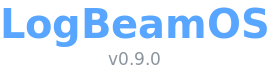
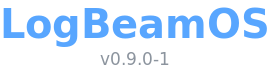
LogBeamOS 0.9.0-1: o Actualizar deixa de esconder as actualizações quando uma fonte de pacotes falha; aviso de terminar a sessão só no fim
Uma fonte de pacotes de outro programa sem a sua chave de assinatura (Google Earth, no PC de Bráulio Sousa, CT7APZ) fazia o Actualizar dizer «Sem ligação à Internet» e esconder todas as linhas do apt, incluindo a do LogBeamOS Update; o ajudante também parava. Agora a janela e o ajudante usam as fontes que responderam, a fonte que falhou aparece nos detalhes, e «Sem ligação à Internet» só quando nenhuma fonte respondeu (o apt 2.8 sai com 0 sem rede: a decisão vem das linhas Hit/Get/Err). O aviso para terminar a sessão sai de um vigia (aviso-sessao) que espera pelo fim do ajudante e do apt, e a janela nova repete-o a seguir a «Actualização concluída.». As Informações do sistema mostram um só número; a janela mostra a versão do LogBeamOS Update com o seu -N; o relatório de diagnóstico mostra a fonte que falha e a arquitectura dos pacotes; codecs pelo metapacote libavcodec-extra (as duas arquitecturas).

Changed region(s): [[0.3542, 0.7324, 0.6199, 0.9296]]

diff --git a/usr/local/lib/logbeamos/actualizar/lb_actualizar.py b/usr/local/lib/logbeamos/actualizar/lb_actualizar.py
@@ -221,14 +221,69 @@ def apt_opcoes(pasta):
             "-o", "Dir::Cache::pkgcache=", "-o", "Dir::Cache::srcpkgcache=", *apt_fontes(pasta)]
 
 
-def apt_pendentes(pasta=None):
-    """Lista (pacote, instalada, nova) do que o apt actualizaria. Sem root: usa uma cópia própria das listas."""
+class SemRede(RuntimeError):
+    """No package source answered apt-get update: there is no Internet connection. "falhas" lists (source, reason)."""
+
+    def __init__(self, falhas):
+        super().__init__("; ".join(f"{f}: {m}" for f, m in falhas))
+        self.falhas = falhas
+
+
+def falhas_apt(texto):
+    """From the output of apt-get update (LC_ALL=C): (how many indexes were reached, [(source, reason)] of the sources
+    that failed). Each failed source is an "Err:N URL SUITE …" line, followed by the reason, indented."""
+    ok, falhas, actual = 0, {}, None
+    for l in texto.splitlines():
+        m = re.match(r"^(Hit|Get|Err|Ign):\d+ (\S+ \S+)", l)
+        if m:
+            actual = None
+            if m.group(1) in ("Hit", "Get"):
+                ok += 1
+            elif m.group(1) == "Err":
+                actual = m.group(2)
+                falhas.setdefault(actual, "")
+        elif actual and l.startswith("  ") and not falhas[actual]:
+            falhas[actual] = l.strip()
+    return ok, list(falhas.items())
+
+
+def apt_actualiza_listas(pasta):
+    """apt-get update into this user's own copy of the package lists. Returns the sources that failed, as
+    [(source, reason)]: the others are updated and used. Raises SemRede when no source answered at all, and
+    RuntimeError when apt itself failed (a broken sources file, for example).
+    Until 0.9.0 any error here showed "No Internet connection" and hid every apt line, the LogBeamOS Update one
+    included: one source of another program without its signing key was enough (Google Earth, reported by Bráulio
+    Sousa, CT7APZ, 22/11/2026). apt 2.8 also ends with 0 when there is no network at all (the failures are warnings),
+    so the exit code tells neither case apart: the "Hit/Get/Err" lines do."""
+    env = dict(os.environ, LC_ALL="C")
+    os.makedirs(f"{pasta}/lists/partial", exist_ok=True)
+    r = subprocess.run(["apt-get", "-q", *apt_opcoes(pasta), "update"], capture_output=True, text=True, env=env)
+    ok, falhas = falhas_apt(r.stdout + "\n" + r.stderr)
+    if falhas and not ok:
+        raise SemRede(falhas)
+    if r.returncode and not falhas:
+        erros = [l for l in r.stderr.splitlines() if l.startswith("E: ")] or r.stderr.strip().splitlines()
+        raise RuntimeError(erros[-1] if erros else "apt-get update")
+    return falhas
+
+
+# Network problems in the messages of flatpak and cinnamon-spice-updater, so that they are not shown as errors
+_REDE = re.compile(r"(?i)could not resolve|temporary failure|could not connect|failed to connect|network is unreachable|"
+                   r"no route to host|timed? ?out|name or service not known|unable to load summary|urlopen error")
+
+
+def e_rede(texto):
+    """Does this error message say that the network could not be reached?"""
+    return bool(_REDE.search(texto or ""))
+
+
+def apt_pendentes(pasta=None, listas=True):
+    """Lista (pacote, instalada, nova) do que o apt actualizaria. Sem root: usa uma cópia própria das listas.
+    With listas=False the lists in pasta are not updated first (apt_actualiza_listas already did it)."""
     env = dict(os.environ, LC_ALL="C")
     if pasta:
-        os.makedirs(f"{pasta}/lists/partial", exist_ok=True)
-        r = subprocess.run(["apt-get", "-q", *apt_opcoes(pasta), "update"], capture_output=True, text=True, env=env)
-        if r.returncode:
-            raise RuntimeError(r.stderr.strip().splitlines()[-1] if r.stderr.strip() else "apt-get update")
+        if listas:
+            apt_actualiza_listas(pasta)
         extra = apt_opcoes(pasta)
     else:
         extra = []
@@ -416,13 +471,18 @@ INFORMACOES_UI = "usr/share/linuxmint/mintreport/mintreport.ui"
 _VS = "/" + VERSAO_SISTEMA
 _VU = "/" + VERSAO_UPDATE
 # Since tools 0.3.23 the screen also shows the LogBeamOS Update version: "LogBeamOS 0.3.17 · LogBeamOS Update 0.3.23".
-# The second key is the line written by tools 0.3.19 to 0.3.22, so that systems already patched get the new one
-_RELEASE = (f"        release = (open({_VS!r}).read().strip() + (' · LogBeamOS Update ' + open({_VU!r}).read().strip() "
-            f"if os.path.exists({_VU!r}) else '')) if os.path.exists({_VS!r}) else config['RELEASE']  # LogBeamOS")
+# Since 0.9.0-1 a single number when both are the same (single version number since 0.9.0): "LogBeamOS 0.9.0-1".
+# The other keys are the lines written by tools 0.3.19 to 0.3.22 ("release = open(") and 0.3.23 to 0.9.0
+# ("release = (open("), so that systems already patched get the new one; the new line starts differently, so a second
+# run leaves it as it is
+_RELEASE = (f"        release = (lambda s, u: s if u in ('', s) else s + ' · LogBeamOS Update ' + u)(open({_VS!r}).read()"
+            f".strip(), open({_VU!r}).read().strip() if os.path.exists({_VU!r}) else '') if os.path.exists({_VS!r}) "
+            f"else config['RELEASE']  # LogBeamOS")
 INFORMACOES_TROCAS = {
     '        distribution = "Linux Mint"': '        distribution = "LogBeamOS"  # LogBeamOS',
     "        release = config['RELEASE']": _RELEASE,
     "        release = open(": _RELEASE,
+    "        release = (open(": _RELEASE,
     "                background-color: #86be43;": "                background-color: #0d1117; /* LogBeamOS */",
 }
 INFORMACOES_UI_TROCAS = {

diff --git a/docs/manual/manual-es.md b/docs/manual/manual-es.md
@@ -8,7 +8,7 @@
 
 *Distribución Linux para radioaficionados*
 
-Este es el manual que acompaña a LogBeamOS (LogBeamOS Update 0.9.0).
+Este es el manual que acompaña a LogBeamOS (LogBeamOS Update 0.9.0-1).
 
 [Português](manual-pt.md) · [English](manual-en.md) · **Español** · [Français](manual-fr.md)
 

diff --git a/docs/manual/manual-en.md b/docs/manual/manual-en.md
@@ -8,7 +8,7 @@
 
 *Linux distribution for radio amateurs*
 
-This is the manual that comes with LogBeamOS (LogBeamOS Update 0.9.0).
+This is the manual that comes with LogBeamOS (LogBeamOS Update 0.9.0-1).
 
 [Português](manual-pt.md) · **English** · [Español](manual-es.md) · [Français](manual-fr.md)
 

diff --git a/docs/manual/manual-pt.md b/docs/manual/manual-pt.md
@@ -8,7 +8,7 @@
 
 *Distribuição Linux para radioamadores*
 
-Este é o manual que acompanha o LogBeamOS (LogBeamOS Update 0.9.0).
+Este é o manual que acompanha o LogBeamOS (LogBeamOS Update 0.9.0-1).
 
 **Português** · [English](manual-en.md) · [Español](manual-es.md) · [Français](manual-fr.md)
 

diff --git a/docs/manual/manual-fr.md b/docs/manual/manual-fr.md
@@ -8,7 +8,7 @@
 
 *Distribution Linux pour radioamateurs*
 
-C'est le manuel fourni avec LogBeamOS (LogBeamOS Update 0.9.0).
+C'est le manuel fourni avec LogBeamOS (LogBeamOS Update 0.9.0-1).
 
 [Português](manual-pt.md) · [English](manual-en.md) · [Español](manual-es.md) · **Français**
 
